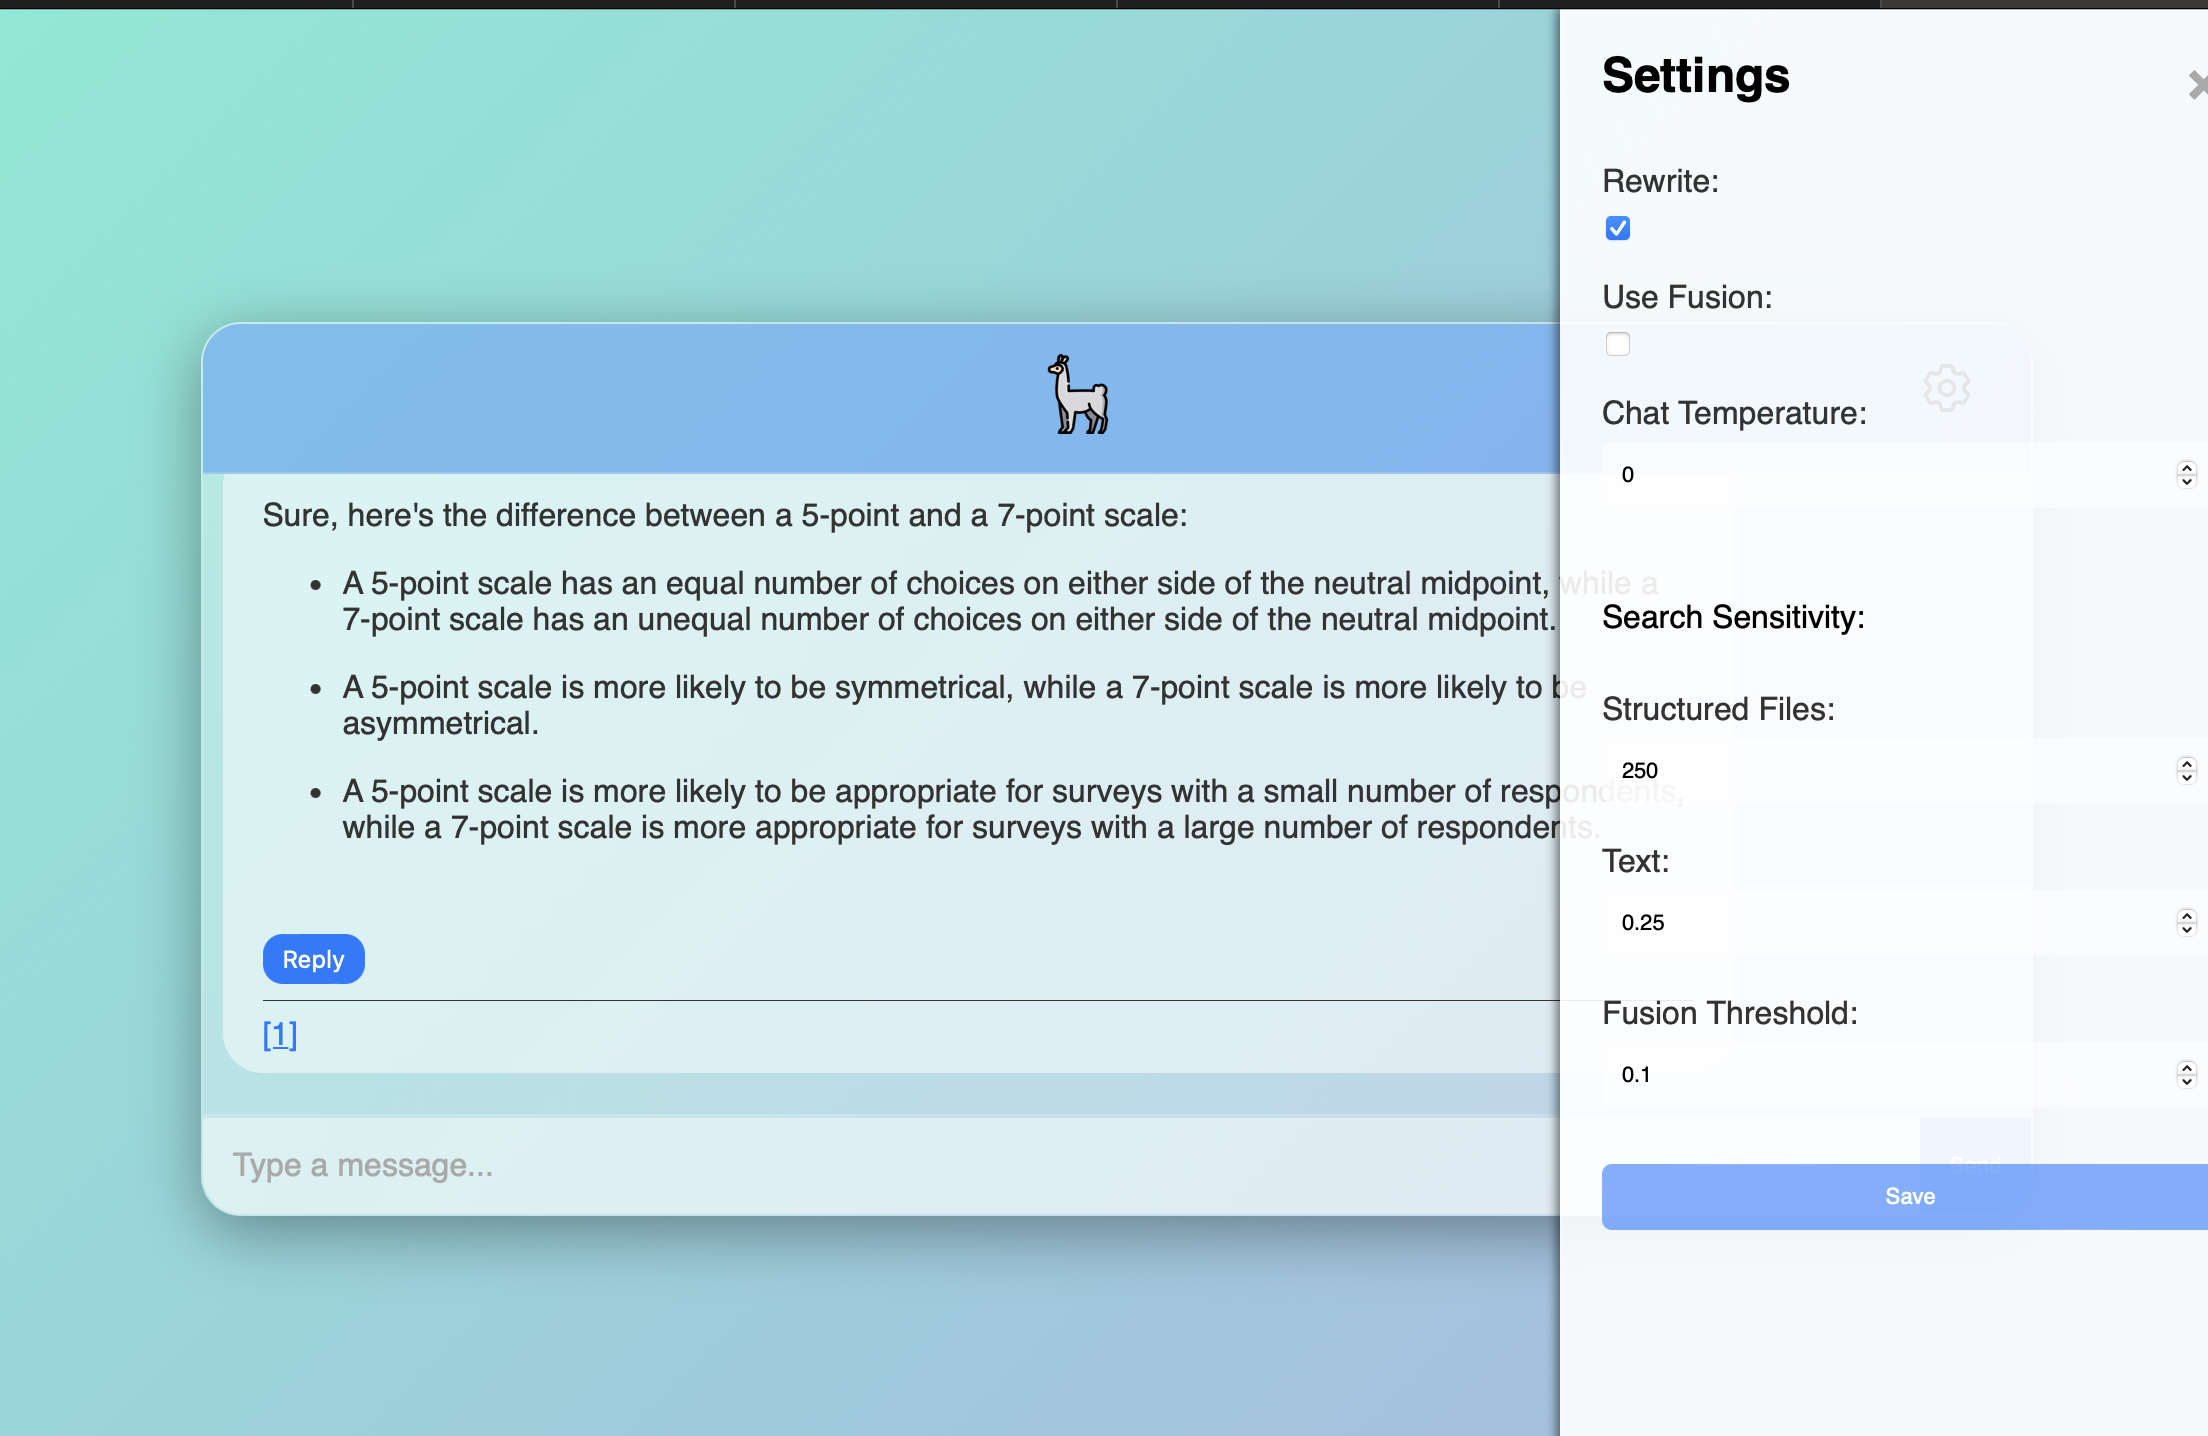
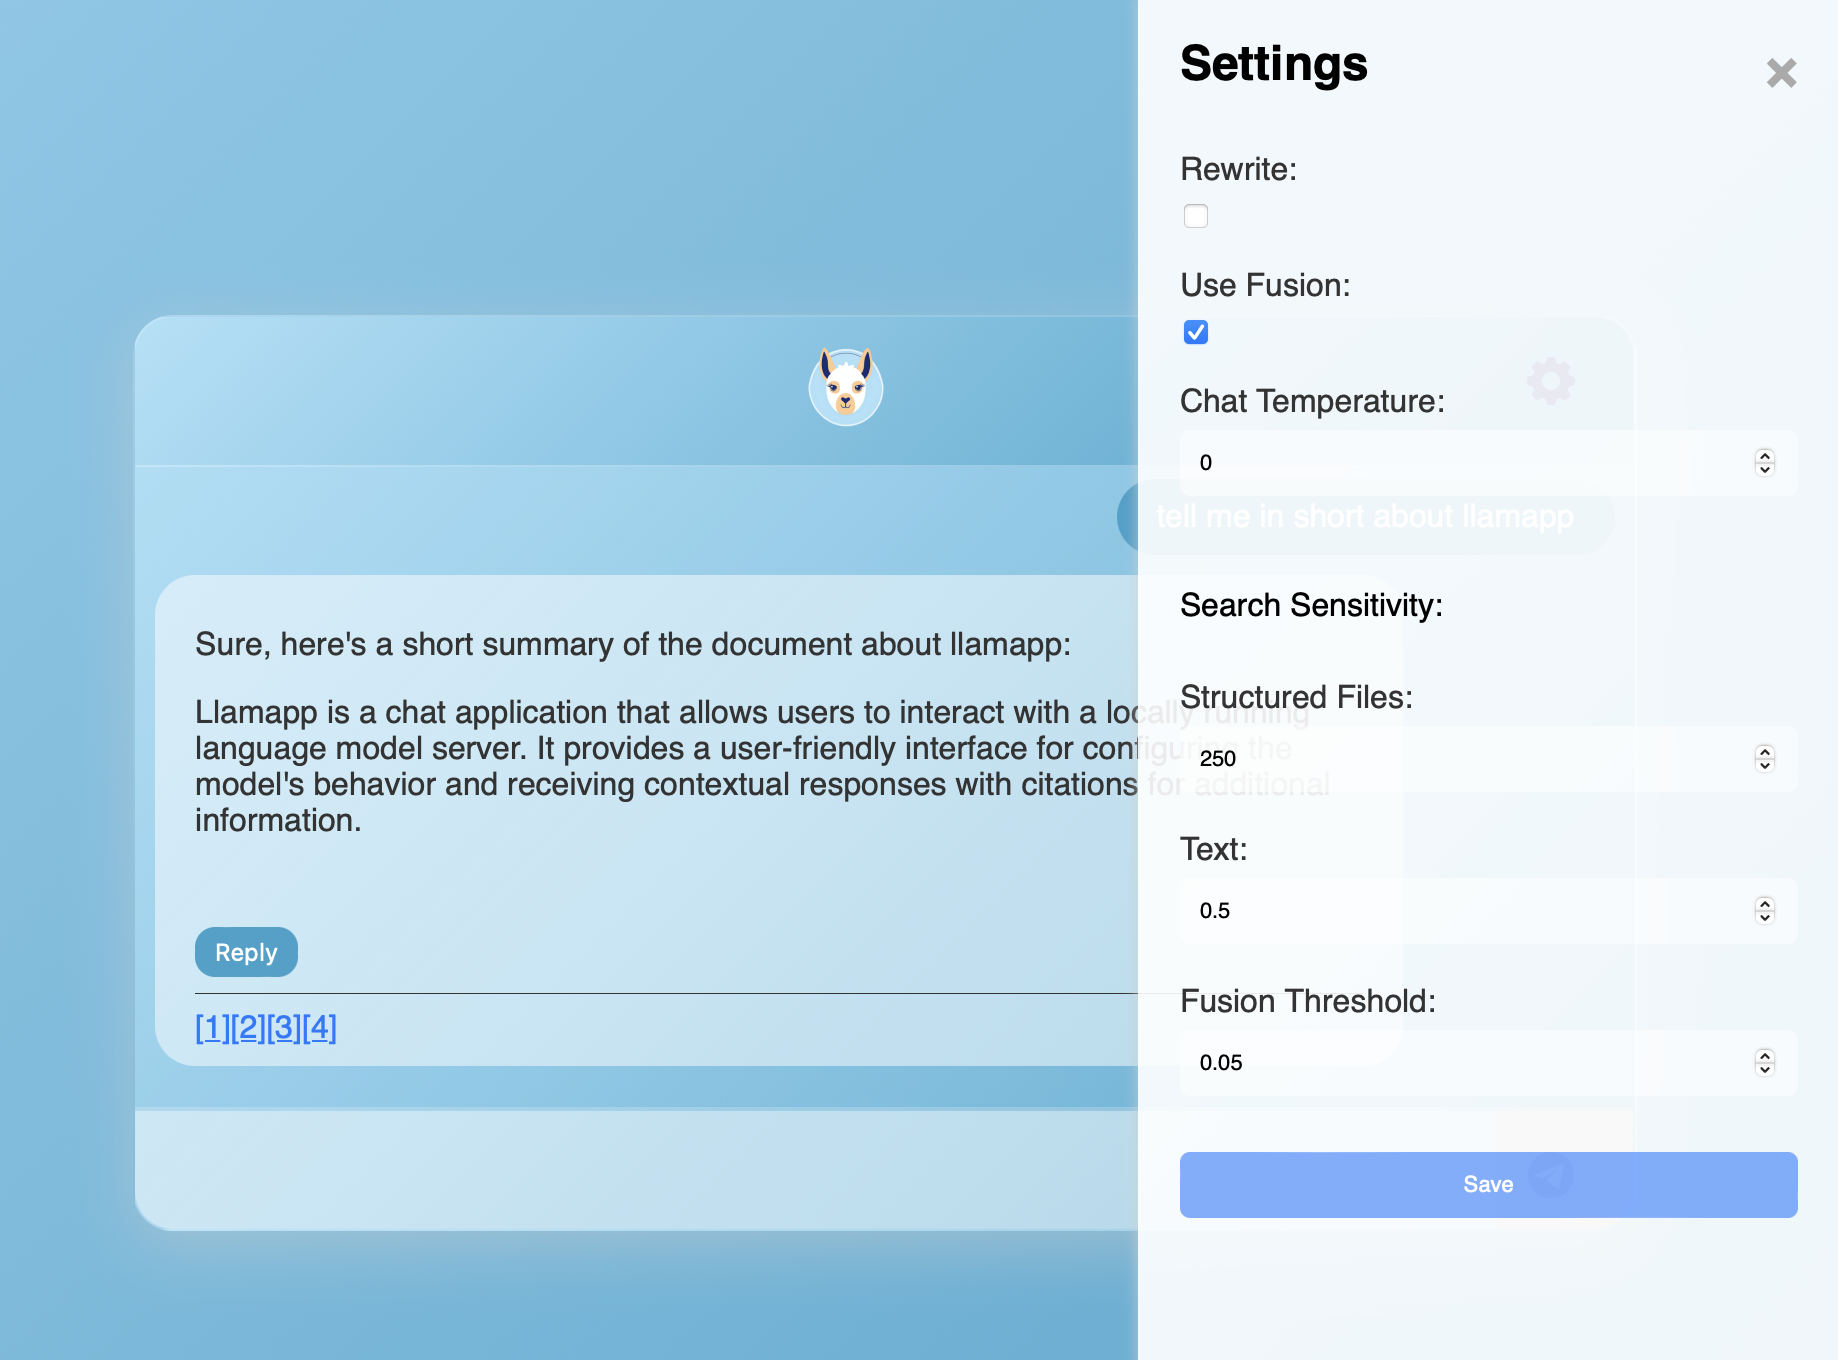
update styling and screenshots.

diff --git a/src/app/styles.css b/src/app/styles.css
@@ -59,7 +59,7 @@ hr {
 }
 
 .chat-header {
-    background: linear-gradient(135deg, #ACE2F9 0%, #1A2A73 100%);
+    background: linear-gradient(135deg, #ACE2F9 0%, #35A1CB 100%);
     color: white;
     padding: 15px;
     text-align: center;
@@ -88,7 +88,7 @@ hr {
     border: none;
     border-radius: 0;
     outline: none;
-    background: #cecfcf72;
+    background: #ffffff80;
     color: #333;
     font-family: 'Roboto', sans-serif;
     font-size: medium;
@@ -106,6 +106,7 @@ hr {
 
 .chat-input button:hover {
     background-color: #FFC995;
+    box-shadow: 5px 5px 10px #FFC995;
 }
 
 .message {
